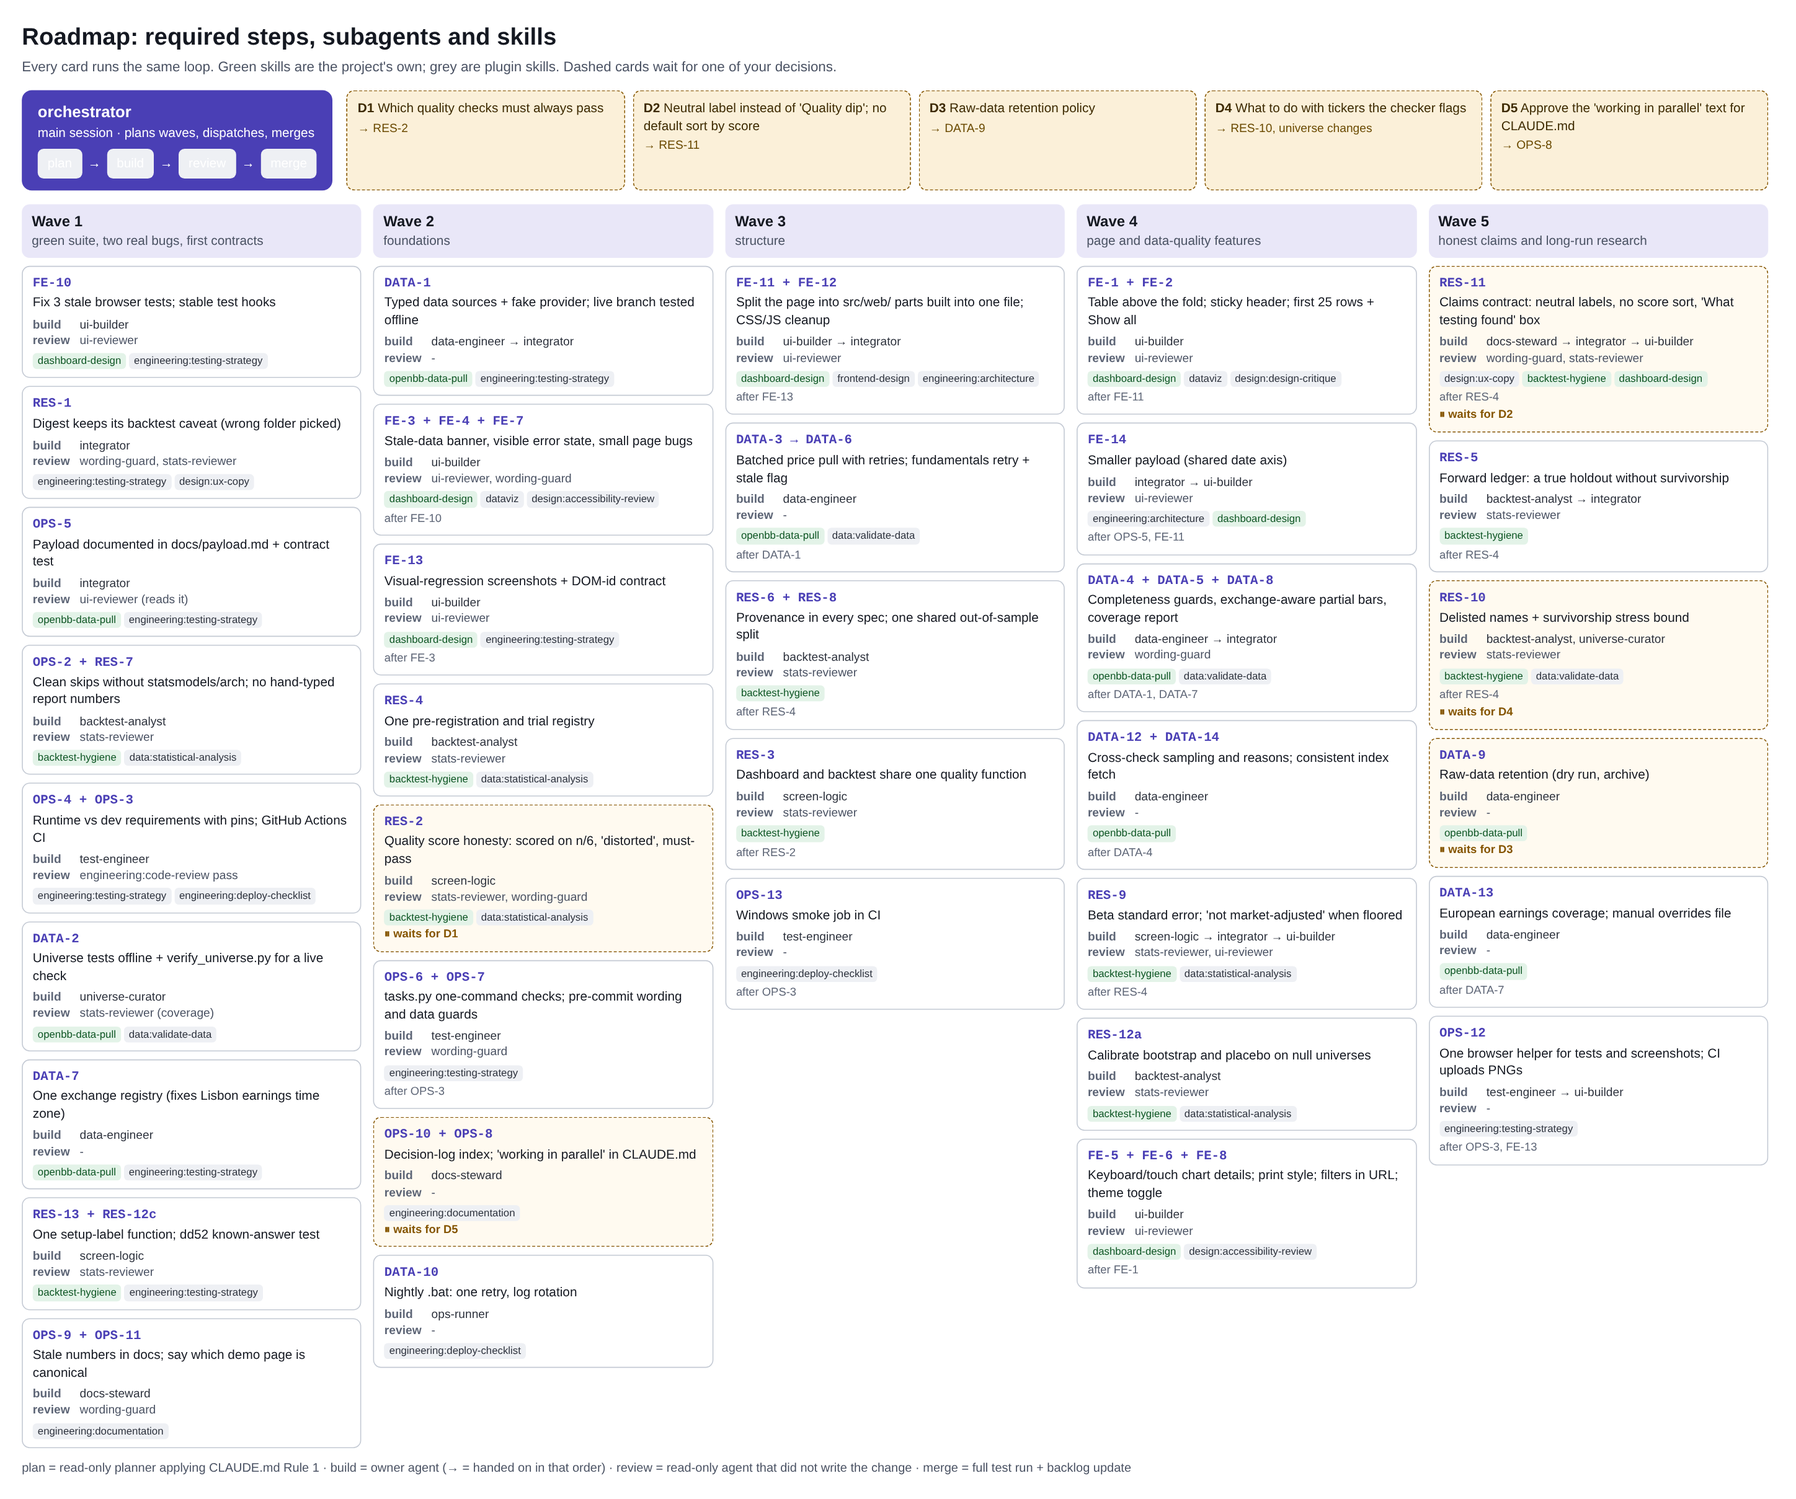
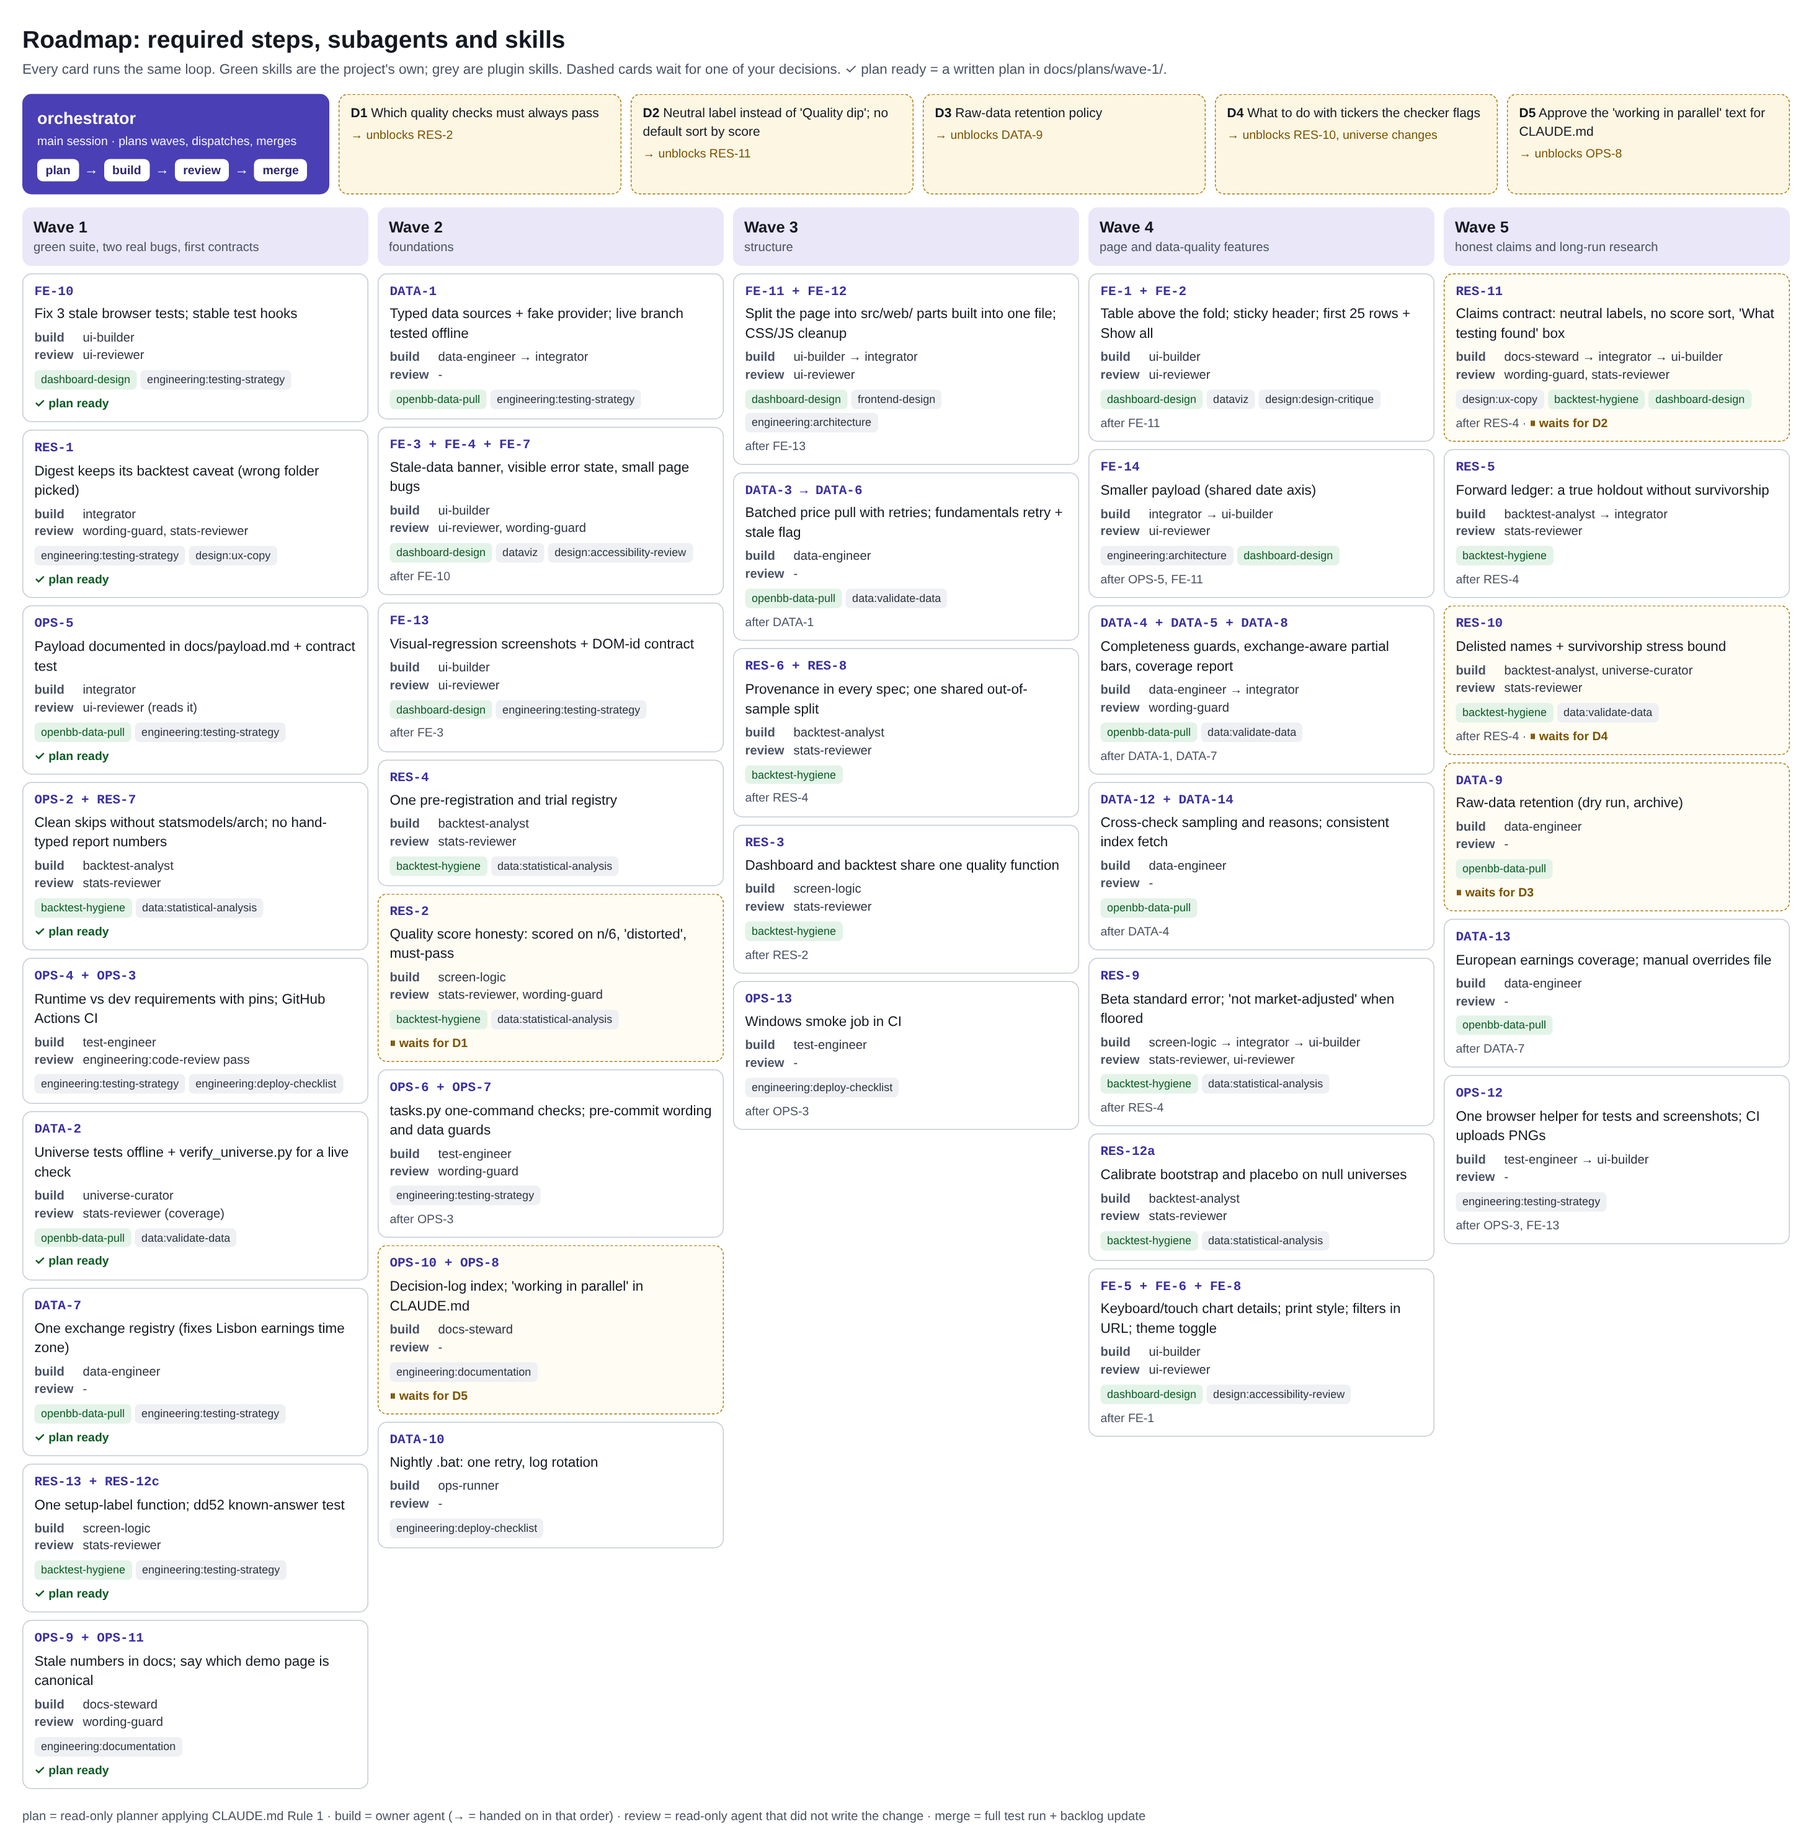
Add wave-1 plans (OPS-2, RES-1, OPS-5) and regenerate roadmap
Claude-Session: https://claude.ai/code/session_01QJjqQ1Qy68gMfZFLUEdDLg

Changed region(s): [[0.0, 0.0, 0.9945, 0.9926]]

diff --git a/docs/agents/roadmap_data.py b/docs/agents/roadmap_data.py
@@ -1,4 +1,4 @@
-"""Single source for docs/ROADMAP.md and docs/agents/roadmap-tree.png. Edit here, then run:
+"""Single source for docs/ROADMAP.md and docs/agents/roadmap-tree.png. Edit here, then run (add --png to redraw the image):
     python docs/agents/roadmap_data.py   (writes the Markdown; the image is rendered from the same data)
 """
 # skill short names -> what they are
@@ -99,7 +99,79 @@ def markdown() -> str:
     out += [f"- `{k}`: {v}" for k, v in SKILLS.items()]
     return "\n".join(out) + "\n"
 
+PROJECT_SKILLS = {"dashboard-design", "openbb-data-pull", "backtest-hygiene"}
+
+
+def html(plans_dir) -> str:
+    """The roadmap tree as one HTML page (rendered to agents/roadmap-tree.png with --png). Plain stdlib, no dependencies."""
+    from html import escape as e
+    css = """
+    body{font:15px/1.4 Arial,Helvetica,sans-serif;color:#141821;background:#fff;margin:24px;width:1900px}
+    h1{font-size:26px;margin:0 0 4px} .sub{color:#4a5263;margin:0 0 16px}
+    .top{display:grid;grid-template-columns:330px repeat(5,1fr);gap:10px;margin-bottom:14px}
+    .orch{background:#4a3fb5;color:#fff;border-radius:10px;padding:14px 16px}
+    .orch b{font-size:18px} .orch .s{font-size:13px;opacity:.95;margin:2px 0 10px}
+    .loop{display:flex;align-items:center;gap:6px;flex-wrap:wrap}
+    .loop span{background:#fff;color:#2b2470;font-weight:600;font-size:13px;border-radius:6px;padding:3px 9px}
+    .loop i{font-style:normal;color:#fff}
+    .dec{background:#fdf6e3;border:1.5px dashed #a87400;border-radius:10px;padding:10px 12px;font-size:14px}
+    .dec .u{color:#7a5200;font-size:13px;margin-top:4px}
+    .waves{display:grid;grid-template-columns:repeat(5,1fr);gap:10px;align-items:start}
+    .wh{background:#e9e7f8;border-radius:10px;padding:10px 12px;margin-bottom:8px}
+    .wh b{font-size:17px} .wh div{color:#4a5263;font-size:13.5px}
+    .card{border:1.5px solid #c4cad4;border-radius:10px;padding:10px 12px;margin-bottom:8px;background:#fff}
+    .card.wait{border-style:dashed;border-color:#a87400;background:#fffcf3}
+    .id{font-family:Menlo,Consolas,monospace;font-weight:700;color:#3a2fa0;font-size:14px}
+    .t{margin:3px 0 6px} .r{font-size:13.5px;color:#2d3340} .r b{color:#4a5263;display:inline-block;width:52px}
+    .sk{display:flex;flex-wrap:wrap;gap:4px;margin-top:6px}
+    .sk span{font-size:12px;border-radius:5px;padding:2px 7px;background:#eef0f4;color:#2d3340}
+    .sk span.p{background:#e3f3e8;color:#0d5a24}
+    .meta{font-size:13px;color:#4a5263;margin-top:6px} .w{color:#7a5200;font-weight:700}
+    .ok{color:#0d5a24;font-weight:700}
+    .foot{color:#4a5263;font-size:13.5px;margin-top:12px}"""
+    out = [f"<!doctype html><meta charset=utf-8><style>{css}</style>",
+           "<h1>Roadmap: required steps, subagents and skills</h1>",
+           "<p class=sub>Every card runs the same loop. Green skills are the project's own; grey are plugin skills. "
+           "Dashed cards wait for one of your decisions. ✓ plan ready = a written plan in docs/plans/wave-1/.</p><div class=top>",
+           "<div class=orch><b>orchestrator</b><div class=s>main session · plans waves, dispatches, merges</div><div class=loop>"
+           "<span>plan</span><i>→</i><span>build</span><i>→</i><span>review</span><i>→</i><span>merge</span></div></div>"]
+    out += [f"<div class=dec><b>{d}</b> {e(t)}<div class=u>→ unblocks {e(u)}</div></div>" for d, t, u in DECISIONS]
+    out.append("</div><div class=waves>")
+    for wave, items in WAVES:
+        num, _, desc = wave.partition(" · ")
+        out.append(f"<div><div class=wh><b>{e(num)}</b><div>{e(desc)}</div></div>")
+        for i, t, b, r, sk, dep, dec in items:
+            planned = wave.startswith("Wave 1") and (plans_dir / f"{i.split(' ')[0]}.md").exists()
+            chips = "".join(f"<span class={'p' if s in PROJECT_SKILLS else 'g'}>{e(s)}</span>" for s in sk)
+            meta = []
+            if dep:
+                meta.append(f"after {e(dep)}")
+            if planned:
+                meta.append("<span class=ok>✓ plan ready</span>")
+            if dec:
+                meta.append(f"<span class=w>⏸ waits for {dec}</span>")
+            out.append(f"<div class='card{' wait' if dec else ''}'><div class=id>{e(i)}</div><div class=t>{e(t)}</div>"
+                       f"<div class=r><b>build</b>{e(b)}</div><div class=r><b>review</b>{e(r)}</div>"
+                       f"<div class=sk>{chips}</div>" + (f"<div class=meta>{' · '.join(meta)}</div>" if meta else "") + "</div>")
+        out.append("</div>")
+    out.append("</div><p class=foot>plan = read-only planner applying CLAUDE.md Rule 1 · build = owner agent (→ = handed on in that order) · "
+               "review = read-only agent that did not write the change · merge = full test run + backlog update</p>")
+    return "".join(out)
+
+
 if __name__ == "__main__":
+    import sys
     from pathlib import Path
-    Path(__file__).resolve().parents[1].joinpath("ROADMAP.md").write_text(markdown(), encoding="utf-8")
+    docs = Path(__file__).resolve().parents[1]
+    docs.joinpath("ROADMAP.md").write_text(markdown(), encoding="utf-8")
     print("wrote docs/ROADMAP.md")
+    if "--png" in sys.argv:                      # needs Playwright + Chromium (dev only)
+        from playwright.sync_api import sync_playwright
+        page_html = html(docs / "plans" / "wave-1")
+        with sync_playwright() as p:
+            b = p.chromium.launch()
+            pg = b.new_page(viewport={"width": 1950, "height": 1000}, device_scale_factor=1.5)
+            pg.set_content(page_html)
+            pg.screenshot(path=str(docs / "agents" / "roadmap-tree.png"), full_page=True)
+            b.close()
+        print("wrote docs/agents/roadmap-tree.png")

diff --git a/docs/plans/wave-1/OPS-2.md b/docs/plans/wave-1/OPS-2.md
@@ -1,0 +1,55 @@
+# OPS-2 + RES-7 · clean test runs without extras; no hand-typed report numbers
+
+**Owner:** backtest-analyst · **Reviewer:** stats-reviewer (wording-guard glances at new fallback sentences) · **Skills:** `backtest-hygiene`, `engineering:testing-strategy` · **Size:** OPS-2 S (about 1 h); RES-7 S-M (about 3 h, mostly tests)
+**Planned 2026-11-04 (plan only; nothing changed yet).** Baseline: `pytest tests/test_feature_experiment.py tests/test_forecast.py tests/test_backtest*.py -q` → 5 failed, 64 passed.
+
+## Understanding
+- **OPS-2:** `feature_experiment.holm` imports `statsmodels` (not installed, not listed): 4 failures. `arch` is optional and
+  missing, so a forecast test gets the EWMA fallback instead of GARCH: 1 failure.
+- **RES-7:** `backtest_report.render_report` hard-codes numbers and review text from one run (spec 79288caaa97d33b1), although its
+  docstring says nothing is typed by hand.
+
+## Recommendation: replace statsmodels with about 8 lines of numpy Holm
+Holm is a fixed textbook formula (sort p-values, adjusted = running max of min(1, (m − i + 1)·p), map back, reject where ≤ alpha).
+It is the only statsmodels use in the repo; a 30 MB dependency is not worth it. Correctness: hand-computed known answers plus a
+parity test against statsmodels that is skipped when statsmodels is absent. statsmodels then goes in `requirements-dev.txt` only.
+
+## Steps
+1. `feature_experiment.py:100-104`: numpy Holm, same signature.
+2. `tests/test_feature_experiment.py`: `test_holm_known_answers` (ties, m = 1, all p = 1, unsorted input, reject flags) and
+   `test_holm_matches_statsmodels` (importorskip). The 4 failing tests then pass with no skip.
+3. `tests/test_forecast.py`: split the method check (accepts GARCH or EWMA; a separate GARCH test is importorskip("arch")); add
+   `test_missing_arch_falls_back_to_ewma`; mark the GARCH loops that silently test the fallback when arch is missing.
+4. `backtest.py:228-258`: the placebo also returns how many distinct date-shift lags it used (`shift_lags`); carried into results.csv, not the spec hash.
+5. New `src/dipdash/backtest_notes.py`: per-spec-hash notes (revisions, independent review, data notes). `REVISIONS` moves there;
+   still excluded from the hash. An unknown hash prints "No review is recorded for spec X" and never inherits old text.
+6. `backtest_run.py:150`: compute the history of the primary cell across runs from trials.csv.
+7. `backtest_report.py`: every hard-coded figure derived instead:
+   "about 660 distinct lags" → `shift_lags`; "+0.2660%, n = 1,504" → primary result, with "identical in every run" only if true;
+   KNEBV / NOVO-B review text → notes; "59 of 60 stocks: ROG.SW" → from `n_series`, universe size and `missing_tickers`;
+   "21 days", "90%", "3 × 3 × 3", "4 periods", "back to 2010", "21-bar cooldown" → from the spec and settings.
+8. `tests/test_backtest_run.py` on a synthetic universe: none of the old literals appear; the synthetic numbers do; any note that
+   quotes the primary value matches it; unknown hash prints the "no review" line; editing a note does not change the spec hash.
+
+## Verification
+The research tests without statsmodels and arch (0 failed, only importorskip skips), then in a scratch venv with both installed;
+the full suite; `grep -nE "0\.2660|1,504|660 distinct|ROG\.SW|KNEBV|NOVO-B" src/dipdash/backtest_report.py` → nothing.
+
+## Stats-reviewer checks
+Holm against statsmodels and the textbook (ties, p = 1); every derived report number against results.csv and spec.json; the
+caveats still cover survivorship, CI level, event count and costs; moving review text to notes does not hide the "not acted on"
+disclosure; `shift_lags` is the right statement of the placebo's resolution.
+
+## Requests to other owners
+test-engineer (OPS-4): `statsmodels` in requirements-dev only (for the parity test); install `arch` in one CI job so the GARCH path runs.
+
+## Risks
+The published sample report changes wording only after a live re-run (needs the raw pull on Iiro's PC). Moving `REVISIONS` wrongly
+could change the hash (guarded by a test).
+
+## Open questions for Iiro
+1. Holm in numpy (suggested) or keep statsmodels? 2. Notes as a Python dict (suggested) or one TOML file per spec?
+3. Later: compute the KNEBV sensitivity as a results column instead of storing it as a note (that is a new trial)?
+
+**Decision-log line (if adopted):** 2026-11-04: Holm adjustment is implemented in numpy in feature_experiment.py; statsmodels is a
+dev-only dependency for a parity test.

diff --git a/docs/plans/wave-1/RES-1.md b/docs/plans/wave-1/RES-1.md
@@ -1,0 +1,40 @@
+# RES-1 · the digest keeps its backtest caveat
+
+**Owner:** integrator · **Reviewers:** wording-guard (caveat text), stats-reviewer (does not overstate) · **Skills:** `engineering:testing-strategy`, `design:ux-copy` · **Size:** S
+**Planned 2026-11-04 (plan only; nothing changed yet).** Baseline: `pytest -q tests/test_digest.py tests/test_dashboard.py` → 66 passed.
+
+## Understanding
+`latest_backtest_line` (digest.py:37-51) sorts `backtests/*/results.csv` by path, so `2026-11-04_forecast` wins. Forecast folders
+have no `spec.json`, feature folders write `spec_features.json`, and only event backtests write `spec.json` (backtest_run.py:128).
+So the 4 Nov digest printed "could not be read" and lost its standing "no out-of-sample edge" line.
+
+## Steps
+1. digest.py: `_is_event_backtest(folder)`: `spec.json` exists, parses, and has `primary_cell` and `variants`. Only those folders
+   qualify, newest by name; `_forecast` and `_features` folders are ignored even with a `results.csv`.
+2. digest.py: a constant `STANDING_CAVEAT`, printed every time, whether or not a backtest line exists. Draft for wording-guard:
+   "So far no tested version of this screen has shown an out-of-sample edge that the sample can separate from noise (see
+   docs/decisions.md). A flag is not a sign of a later rebound; treat the list as a place to start reading."
+3. tests/test_digest.py: existing tests (~172-187) also write a minimal `spec.json`; new
+   `test_backtest_line_ignores_forecast_and_feature_siblings` (folders `X`, `X_features`, `X_forecast` → names `X`),
+   `test_backtest_line_skips_folder_with_unrelated_spec_json`, `test_standing_caveat_always_present` (no backtests, unreadable, valid).
+
+## Verification
+`pytest -q tests/test_digest.py tests/test_ownership.py`; `python -m dipdash --demo --out <tmp>/dashboard.html`, then the caveat is in digest.md.
+
+## Reviewer checks
+wording-guard: neutral, plain, no "rebound expected", true even when the backtest line is missing.
+stats-reviewer: matches docs/decisions.md (the dip-rule and feature results); picking by spec cannot quote a feature or non-primary result.
+
+## Risks
+Structure-based detection breaks if `primary_cell` is renamed (a `kind` field would be sturdier; see request). A fixed "no edge"
+sentence goes stale if a later primary interval excludes zero.
+
+## Requests to other owners
+backtest-analyst (optional): add `"kind": "event_backtest"` to spec.json, `"kind": "features"` to spec_features.json, and a spec file for forecast runs.
+
+## Open questions for Iiro
+1. Fixed caveat forever, or switch off automatically if a future primary out-of-sample interval excludes zero?
+2. Should spec files carry an explicit `kind` (sturdier than detecting by structure)?
+
+**Decision-log line (if adopted):** 2026-11-04: the digest quotes only folders whose spec.json describes an event backtest, and always
+prints a fixed out-of-sample caveat.

diff --git a/docs/plans/wave-1/OPS-5.md b/docs/plans/wave-1/OPS-5.md
@@ -1,0 +1,37 @@
+# OPS-5 (= FE-9, part 1) · the payload as a documented, tested contract
+
+**Owner:** integrator · **Reviewer:** ui-reviewer (reads it as the page's consumer) · **Skills:** `engineering:architecture`, `engineering:testing-strategy`, `openbb-data-pull` · **Size:** S-M (with RES-1, about 250 lines of doc and tests)
+**Planned 2026-11-04 (plan only; nothing changed yet).**
+
+## Understanding
+Write `docs/payload.md` (every field: type, unit, can it be null, meaning) and `tests/test_payload_contract.py`, pinned to the real
+CLI payload including `alerts`, so the page and the Python side can change independently and a rename is caught.
+
+## What the doc will say (fields found by running the demo through the CLI)
+- **Units:** moves are fractions (−0.04 means −4%), not percent. `price` is the adjusted close in local currency `ccy`.
+- **alerts:** added in cli.py:199 after `build_payload`. Absent = no alert step ran; `null` = the step failed; `[]` = a quiet day
+  (matches template.html:486-490).
+- **Top level:** generated, tz, demo, rows, data_quality, fx_to_usd (USD per unit), indices, issues, settings (dip, quality, knife), alerts.
+- **Row:** moves r1, r5, r21, dd20, dd52, vs200, x5, res1, res5; price, rsi (0-100), z5, volx, res5z, beta, beta_raw; flags
+  s200_falling, knife, partial, dip; series spark (last 90 closes) and hist {d, c, s, h}; prev; asof, idx, idx_sym, idx_why,
+  beta_side, res_why; earn; t, name, region, sector; q and qchecks; fpe, tpe, ccy; news; why; setup (one of five labels).
+- In the demo the residual, beta, earnings and index-reason fields are always null; their types come from the code.
+
+## Tests (tests/test_payload_contract.py)
+- Top-level keys and types from a CLI demo run (payload captured, `alerts` a list).
+- Every row has exactly the documented keys with documented types or allowed nulls; nested shapes match.
+- The doc tables and the test's spec agree (parsed from docs/payload.md).
+- The template reads only documented fields (`DATA.x`, `r.x` minus a small allowlist, `.earn.x`, `.prev.x`).
+- A planted rename (`r1` → `ret1`) in a copy of the payload and of the template makes the checks fail.
+- Alerts semantics: no key without the alert step; `null` when the alert step is forced to fail.
+
+## Verification
+`pytest -q tests/test_payload_contract.py tests/test_dashboard.py tests/test_ownership.py`; the planted-rename check by hand once.
+
+## Risks
+The `r.x` regex can give false positives as the template grows (allowlist upkeep). The CLI demo run in tests takes 1-3 s and writes
+alert state inside tmp_path only.
+
+## After this lands
+FE-14 (smaller payload) and RES-9 (beta labels) change the payload through this contract; ui-builder lists its DOM hooks in
+`docs/frontend-contract.md` (FE-13).
